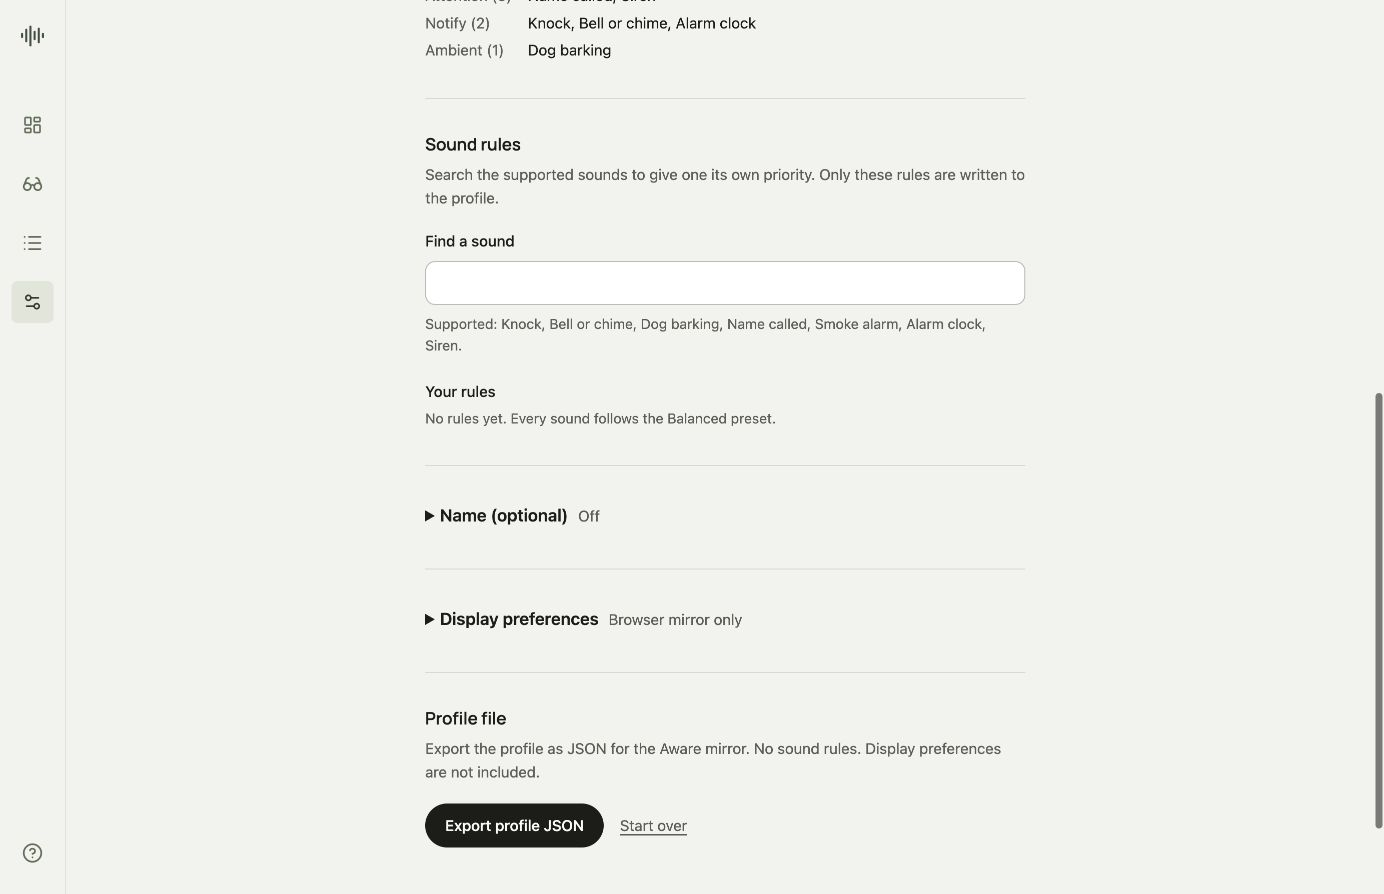
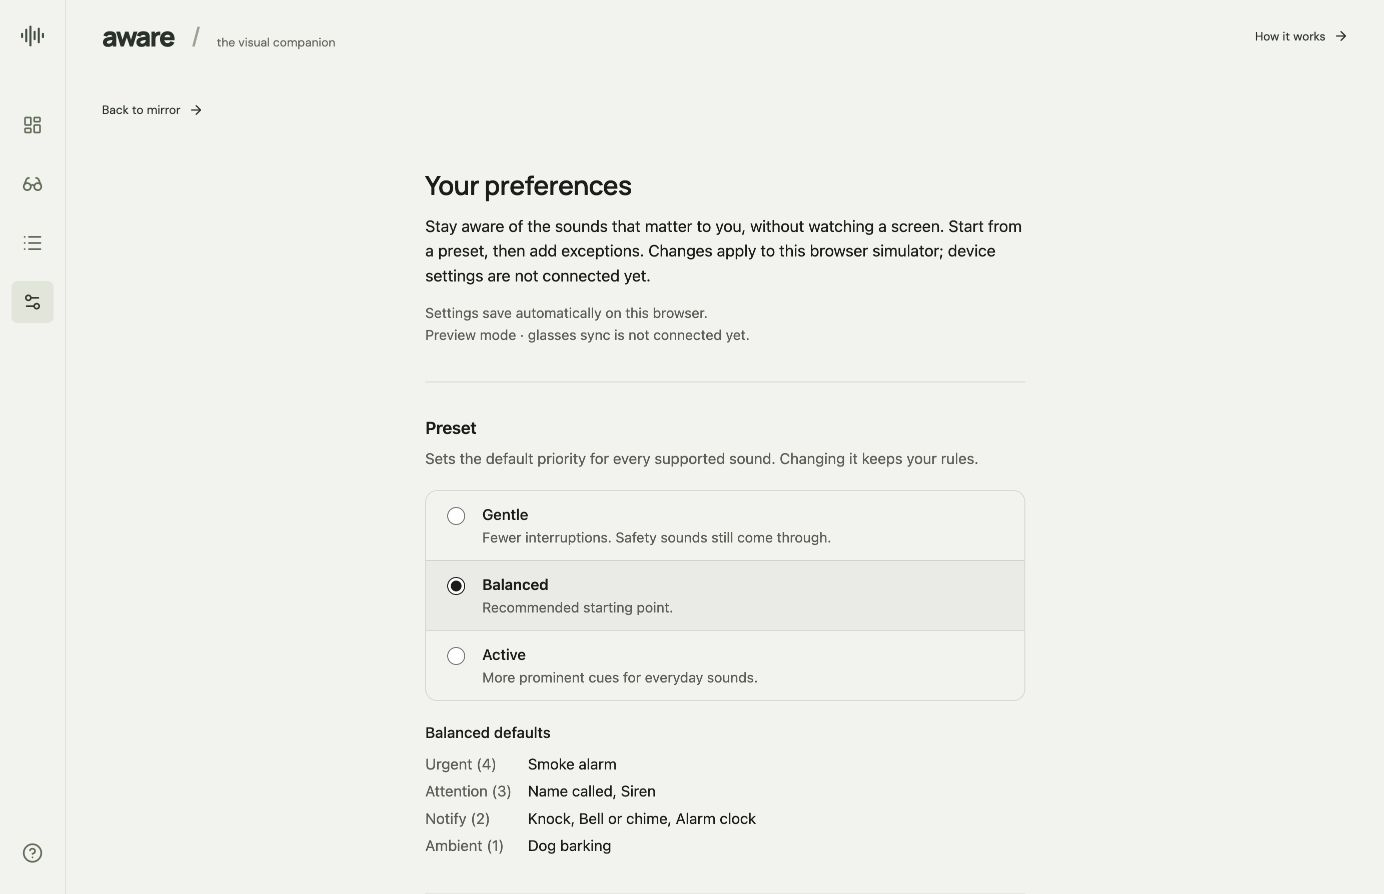
Make tester onboarding save automatically without JSON handoff

diff --git a/frontend/mana/AwareOnboarding.jsx b/frontend/mana/AwareOnboarding.jsx
@@ -258,7 +258,6 @@ export function sanitizeAwareDisplay(raw) {
 const AWARE_DRAFT_KEY = "aware.profile-draft.v2";
 const AWARE_LEGACY_KEY = "aware.profile-draft.v1";
 const AWARE_DISPLAY_KEY = "aware.display-prefs.v1";
-const AWARE_EXPORT_FILE = "aware-profile-demo.json";
 
 function awareKey(base) {
   return base + ":local-demo";
@@ -296,13 +295,6 @@ function readAwareDraft() {
       rules: [],
     });
   return null;
-}
-
-function awareTime(ms) {
-  return new Date(ms).toLocaleTimeString([], {
-    hour: "numeric",
-    minute: "2-digit",
-  });
 }
 
 function awareReadableOn(hex) {
@@ -347,7 +339,7 @@ export function AwareCuePreview({
   );
 }
 
-export default function AwareOnboarding({ onChange } = {}) {
+export default function AwareOnboarding({ onChange, onComplete } = {}) {
   const isDark = false; // Host app currently supplies the light theme.
   const uid = useId();
   const [storageOk] = useState(() => awareStorageAvailable());
@@ -365,7 +357,6 @@ export default function AwareOnboarding({ onChange } = {}) {
   }));
   const [query, setQuery] = useState("");
   const [pending, setPending] = useState(null); // { key, tier }
-  const [exportNote, setExportNote] = useState("");
   const [confirmReset, setConfirmReset] = useState(false);
   const [previewKey, setPreviewKey] = useState("smoke_alarm");
   const [direction, setDirection] = useState("unknown");
@@ -413,7 +404,6 @@ export default function AwareOnboarding({ onChange } = {}) {
   useEffect(() => {
     onChange?.({ profile, display, direction });
   }, [profile, display, direction, onChange]);
-  const json = useMemo(() => JSON.stringify(profile, null, 2), [profile]);
   const ruleCount = draft.rules.length;
   const primary = profile.name_detection.primary_name;
   const preset = AWARE_PRESETS.find((m) => m.key === draft.mode);
@@ -571,70 +561,18 @@ export default function AwareOnboarding({ onChange } = {}) {
   };
   const resetRule = (key) => setDraft((d) => removeAwareRule(d, key));
 
-  const exportProfile = () => {
-    try {
-      const blob = new Blob([json + "\n"], { type: "application/json" });
-      const url = URL.createObjectURL(blob);
-      const a = document.createElement("a");
-      a.href = url;
-      a.download = AWARE_EXPORT_FILE;
-      document.body.appendChild(a);
-      a.click();
-      a.remove();
-      setTimeout(() => URL.revokeObjectURL(url), 1500);
-      setExportNote(
-        "Downloaded " +
-          AWARE_EXPORT_FILE +
-          " at " +
-          awareTime(Date.now()) +
-          ".",
-      );
-    } catch (e) {
-      setExportNote(
-        "Download is not available here. Open the profile JSON below and copy it instead.",
-      );
-    }
-  };
-
-  const copyJson = async () => {
-    let ok = false;
-    try {
-      if (navigator.clipboard) {
-        await navigator.clipboard.writeText(json);
-        ok = true;
-      }
-    } catch (e) {
-      ok = false;
-    }
-    setExportNote(
-      ok
-        ? "Copied the profile JSON."
-        : "Copy failed. Select the text below instead.",
-    );
-  };
-
   const resetAll = () => {
     setDraft(AWARE_EMPTY_DRAFT);
     setDisplay(sanitizeAwareDisplay(null));
     setPending(null);
     setQuery("");
     setConfirmReset(false);
-    setExportNote("");
   };
 
-  let statusText;
-  if (!storageOk)
-    statusText =
-      "Draft not saved: this browser does not allow local storage. Export to keep your settings.";
-  else if (saveState.kind === "saved")
-    statusText =
-      "Draft saved in this browser at " + awareTime(saveState.at) + ".";
-  else if (saveState.kind === "restored")
-    statusText = "Draft restored from this browser.";
-  else if (saveState.kind === "failed")
-    statusText =
-      "Draft could not be saved in this browser. Export to keep your settings.";
-  else statusText = "New draft. Changes are saved in this browser as you edit.";
+  const statusText =
+    !storageOk || saveState.kind === "failed"
+      ? "Settings apply for this visit, but could not be saved in this browser."
+      : "Settings save automatically on this browser.";
 
   const previewEv = awareEvent(previewKey) || AWARE_EVENTS[0];
   const previewResolved = resolveAwareTier(draft, previewEv.key);
@@ -689,9 +627,7 @@ export default function AwareOnboarding({ onChange } = {}) {
           style={{ marginTop: 14, fontSize: 14, color: p.muted }}
         >
           <div>{statusText}</div>
-          <div>
-            Not connected to glasses, a microphone or a profile service.
-          </div>
+          <div>Preview mode · glasses sync is not connected yet.</div>
         </div>
 
         {/* Preset */}
@@ -768,7 +704,7 @@ export default function AwareOnboarding({ onChange } = {}) {
             {draft.mode !== "balanced" && (
               <p style={s.help}>
                 {preset.label} defaults are provisional; only Balanced is agreed
-                so far. Defaults are not written to the profile.
+                so far. You can change any sound below.
               </p>
             )}
           </div>
@@ -780,8 +716,7 @@ export default function AwareOnboarding({ onChange } = {}) {
             Sound rules
           </h2>
           <p style={s.lead}>
-            Search the supported sounds to give one its own priority. Only these
-            rules are written to the profile.
+            Search for a sound to change how it gets your attention.
           </p>
 
           {!pending && (
@@ -1085,7 +1020,7 @@ export default function AwareOnboarding({ onChange } = {}) {
                   marginLeft: 6,
                 }}
               >
-                {primary ? "Name detection on in profile" : "Off"}
+                {primary ? "Saved for later" : "Off"}
               </span>
             </summary>
             <div style={{ marginTop: 16 }}>
@@ -1103,7 +1038,7 @@ export default function AwareOnboarding({ onChange } = {}) {
               />
               <p id={uid + "-name-help"} style={s.help}>
                 {primary
-                  ? "Name detection is turned on in the exported profile. Nothing is listening for it yet."
+                  ? "Your name is saved. Name recognition is not available yet."
                   : "Leave blank to keep name detection off."}
               </p>
             </div>
@@ -1145,8 +1080,7 @@ export default function AwareOnboarding({ onChange } = {}) {
               </span>
             </summary>
             <p style={Object.assign({}, s.lead, { marginTop: 12 })}>
-              Saved in this browser and kept out of the profile file until a
-              display schema is agreed.
+              See how your cues will look. These choices apply to this preview.
             </p>
 
             <div style={{ marginTop: 20 }}>
@@ -1402,20 +1336,8 @@ export default function AwareOnboarding({ onChange } = {}) {
           </details>
         </section>
 
-        {/* Export */}
-        <section style={s.section} aria-labelledby={uid + "-export-h"}>
-          <h2 id={uid + "-export-h"} style={s.h2}>
-            Profile file
-          </h2>
-          <p style={s.lead}>
-            Export the profile as JSON for the Aware mirror.{" "}
-            {ruleCount === 0
-              ? "No sound rules."
-              : ruleCount === 1
-                ? "One sound rule."
-                : ruleCount + " sound rules."}{" "}
-            Display preferences are not included.
-          </p>
+        <section style={s.section} aria-label="Finish setup">
+          <p style={s.lead}>You can change these preferences anytime.</p>
           <div
             style={{
               display: "flex",
@@ -1425,8 +1347,8 @@ export default function AwareOnboarding({ onChange } = {}) {
               marginTop: 20,
             }}
           >
-            <button type="button" onClick={exportProfile} style={s.primaryBtn}>
-              Export profile JSON
+            <button type="button" onClick={onComplete} style={s.primaryBtn}>
+              Start preview
             </button>
             {!confirmReset ? (
               <button
@@ -1446,7 +1368,7 @@ export default function AwareOnboarding({ onChange } = {}) {
                 }}
               >
                 <span style={{ fontSize: 14, color: p.muted }}>
-                  Clear the profile and display settings?
+                  Reset your sound and display preferences?
                 </span>
                 <button type="button" onClick={resetAll} style={s.quietBtn}>
                   Clear
@@ -1461,51 +1383,6 @@ export default function AwareOnboarding({ onChange } = {}) {
               </span>
             )}
           </div>
-          <p
-            role="status"
-            aria-live="polite"
-            style={Object.assign({}, s.help, { minHeight: 22 })}
-          >
-            {exportNote}
-          </p>
-          <details style={{ marginTop: 8 }}>
-            <summary style={{ fontSize: 15, color: p.muted, padding: "6px 0" }}>
-              Show profile JSON
-            </summary>
-            <div
-              style={{
-                marginTop: 10,
-                border: "1px solid " + p.line,
-                borderRadius: 12,
-                overflow: "hidden",
-              }}
-            >
-              <pre
-                style={{
-                  margin: 0,
-                  padding: 16,
-                  fontFamily: mono,
-                  fontSize: 14,
-                  lineHeight: 1.5,
-                  overflowX: "auto",
-                  background: p.tint,
-                  userSelect: "text",
-                }}
-              >
-                {json}
-              </pre>
-              <div
-                style={{
-                  borderTop: "1px solid " + p.line,
-                  padding: "8px 12px",
-                }}
-              >
-                <button type="button" onClick={copyJson} style={s.textBtn}>
-                  Copy JSON
-                </button>
-              </div>
-            </div>
-          </details>
         </section>
       </div>
     </div>

diff --git a/frontend/src/App.tsx b/frontend/src/App.tsx
@@ -515,7 +515,10 @@ export default function App() {
           <button className="text-button" onClick={() => setView("companion")}>
             Back to mirror <ArrowRight size={15} />
           </button>
-          <Onboarding onChange={applySetup} />
+          <Onboarding
+            onChange={applySetup}
+            onComplete={() => setView("companion")}
+          />
         </div>
         {!focus && view === "events" && (
           <section

diff --git a/frontend/mana/AwareOnboarding.d.ts b/frontend/mana/AwareOnboarding.d.ts
@@ -51,4 +51,5 @@ export function resolveAwareTier(
 ): { tier: Tier; source: "rule" | "preset" };
 export default function AwareOnboarding(props: {
   onChange?: (change: SetupChange) => void;
+  onComplete?: () => void;
 }): ReactElement;

diff --git a/docs/mana-onboarding.md b/docs/mana-onboarding.md
@@ -21,7 +21,7 @@ not be imported. The revision requires numeric tiers 0–4 and generic Bell/chim
 - Numeric tier 0 remains a real Ignore override, not a falsey “use default.”
 - Switching preset preserves overrides; removing a rule restores default and removes it from export.
 - Unknown niche queries explain model support; they do not create recognition capability.
-- Local draft status and profile JSON export; no implication that saving controls a live device.
+- Automatic browser-local saving and Start preview; no JSON download or technical profile UI.
 - Display settings stay outside the proposed profile JSON until a display schema is agreed.
 - Icon-first ordinary cues, urgent labels, optional labels/colors/motion, clear mock-direction labeling.
 

diff --git a/TEAM-NOTES.md b/TEAM-NOTES.md
@@ -163,6 +163,12 @@ If you already have that local branch, use `git switch codex/browser-mirror` ins
 - Keep a short benefit sentence in onboarding. Put the fuller problem, motivation and impact story in
   the submission/pitch; keep the live mirror focused on detections.
 
+## Tester onboarding correction — October 23
+
+User-facing onboarding must not ask testers to download, copy or manage JSON. Settings save locally
+automatically, and Start preview returns to the companion. Internal profile helpers remain for future
+backend integration; the interface explicitly says glasses syncing is not connected.
+
 ## Add a note
 
 ```text
